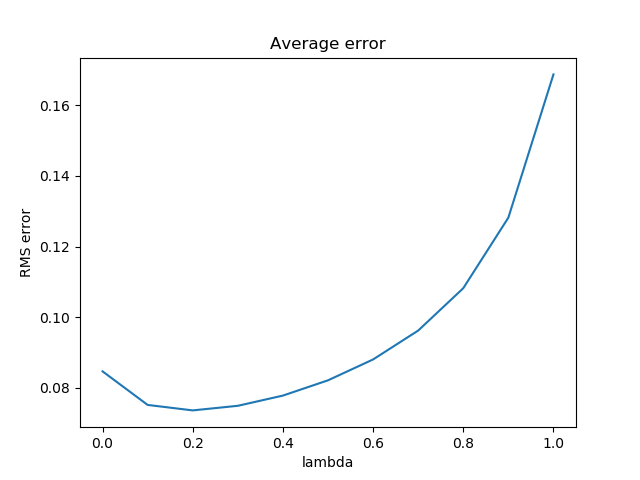
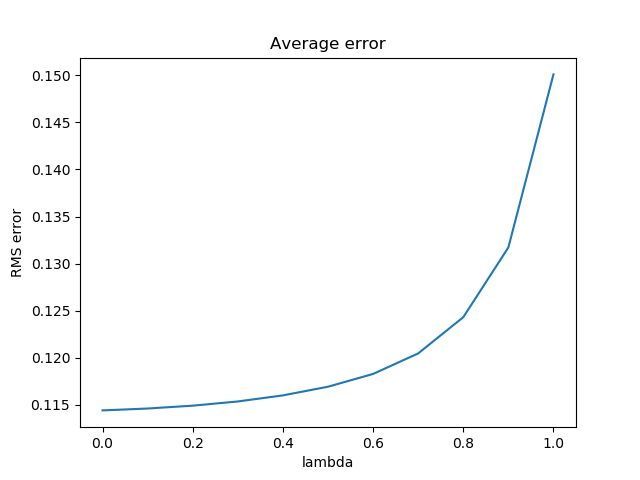
working fig3 gen

diff --git a/Project_1/p1.py b/Project_1/p1.py
@@ -1,3 +1,5 @@
+#delta_w_t = alpha * (next_state - curr_state) * sum(lamb**(t-k) * grad_w * state_k)
+
 import matplotlib.pyplot as plt
 import numpy as np
 import math
@@ -23,6 +25,14 @@ def computeGT(): # compute ground truth
 	
 	return values
 	
+def computeReturn(vals, i):
+	if i == 0:
+		return 0
+	elif i == len(vals)-1:
+		return 1
+	else:
+		return (vals[i-1]+vals[i+1])/2
+		
 def generateTrainingSets(sets=100, sequences=10):
 	trainingData = []
 	for i in range(0,sets):
@@ -49,63 +59,63 @@ def printTrainingData(data):
 		for seq in set:
 			print(seq)
 	print('==================== training data ====================')
-	
-def computeReturn(vals, i, lr=0.5):
-	if i == 0:
-		return 0
-	elif i == len(vals)-1:
-		return 1
-	else:
-		#return vals[i] + lr * ((vals[i-1]+vals[i+1])/2 - vals[i])
-		return (vals[i-1]+vals[i+1])/2
-		
-def updateEstimate(currEstimate, newSeq, lamb, lr=0.1):
-	delta = [0] * len(currEstimate)
-	for ind in range(0,len(newSeq)-1): # skip end state
-		state = newSeq[ind]
-		
-		newEstimate = 0
-		endWeight = 1
-		for i in range(ind+1, len(newSeq)):
-			n = i - ind
-			newEstimate += (1-lamb) * lamb**(n-1) * computeReturn(currEstimate, newSeq[i])
-			endWeight -= (1-lamb) * lamb**(n-1)
-		newEstimate += endWeight * computeReturn(currEstimate, newSeq[-1])
 
-		delta[state] += lr * (newEstimate - currEstimate[state])
-		currEstimate[state] += lr * (newEstimate - currEstimate[state])
-	return currEstimate#, delta
+def computeRMSE(gt, values):
+	return math.sqrt(sum((values - gt)**2)/len(gt))
 
-def estimateValues(data, lamb, lr, threshold=0.001):
-	estimates_list = []
-	n = -1
+##########################################################################################
+
+def computeSum(subSeq, lamb, values):
+	summation = 0
+	origVal = values[subSeq[0]]
+	finalLamb = 1
+	for k in range(1, len(subSeq)-1): # exclude first and last states
+		newVal = values[subSeq[k]]
+		#print('===='+str(subSeq)+'; '+str(origVal)+', '+str(newVal))
+		summation += (1 - lamb) * lamb**(k-1) * (newVal - origVal)
+		finalLamb -= (1 - lamb) * lamb**(k-1)
+		#print(summation)
+	terminalVal = values[subSeq[-1]]
+	summation += finalLamb * (terminalVal - origVal)
+	#print(summation)
+	return summation
+
+def computeDelta(seq, lamb, alpha, values):
+	delta = np.array(values[:] * 0.0)
+	for i in range(0, len(seq)):
+		delta[seq[i]] += alpha * computeSum(seq[i:], lamb, values)
+	return delta
+
+def processSet(set, lamb, alpha=0.01, threshold=0.0001):
+	values = np.array([0,0,0,0,0,0,1.0])
+	deltas = np.array([1.0]*7)
+	while max(abs(deltas)) > threshold:
+	#for i in range(0,100):
+		deltas = np.array([0.0]*7)
+		for seq in set:
+			d = computeDelta(seq, lamb, alpha, values)
+			deltas += d#/len(set)
+			#values += d
+		values += deltas
+		#print('values: '+str(values))
+		#print('prevValues: '+str(prevValues))
+	#print(values)
+	return values
+
+def computeError(gt, data, lamb):
+	errors = np.array([])
 	for set in data:
-		n += 1
-		estimates = [0.0,0,0,0,0,0,1]
-		prevEstimates = [0,0,0,0,0,0,0]
-		while max(abs(np.array(estimates) - np.array(prevEstimates))) > threshold:
-			prevEstimates = estimates[:]
-			est_delta = np.array([0.0]*7)
-			for seq in set:
-				estimates = updateEstimate(estimates, seq, lamb, lr)
-				# temp, delta = updateEstimate(estimates, seq, lamb, lr)
-				# est_delta += np.array(delta)
-			# estimates += est_delta
-		estimates_list.append(estimates)
-	return estimates_list
+		values = processSet(set, lamb)
+		errors = np.append(errors, computeRMSE(gt, values))
+	return np.mean(errors)
 
-def computeError(gt, data, lamb, lr):
-	est_list = estimateValues(data, lamb, lr)
-	errors = []
-	for e in est_list:
-		errors.append(math.sqrt(sum((np.array(e) - np.array(gt))**2)/len(e)))
-	return sum(errors)/len(errors)
+##########################################################################################
 
 def getFigure3(gt, data):
 	errors = []
 	lambdas = []
 	for lamb in np.arange(0.0,1.1,0.1):
-		errors.append(computeError(gt, data, lamb, 0.1))
+		errors.append(computeError(gt, data, lamb))
 		lambdas.append(lamb)
 		
 	plt.figure()
@@ -115,10 +125,9 @@ def getFigure3(gt, data):
 	plt.ylabel('RMS error')
 	plt.show()
 
-#np.random.seed(1)
+np.random.seed(1)
 gt = computeGT()
 data = generateTrainingSets(100, 10)
 
-#figure3(gt, data)
-err = computeError(gt, data, lamb=1, lr=0.1)
-print(err)
+getFigure3(gt, data)
+#print(computeError(gt, data, 0.5))

diff --git a/Project_1/p1_orig.py b/Project_1/p1_orig.py
@@ -1,5 +1,3 @@
-#delta_w_t = alpha * (next_state - curr_state) * sum(lamb**(t-k) * grad_w * state_k)
-
 import matplotlib.pyplot as plt
 import numpy as np
 import math
